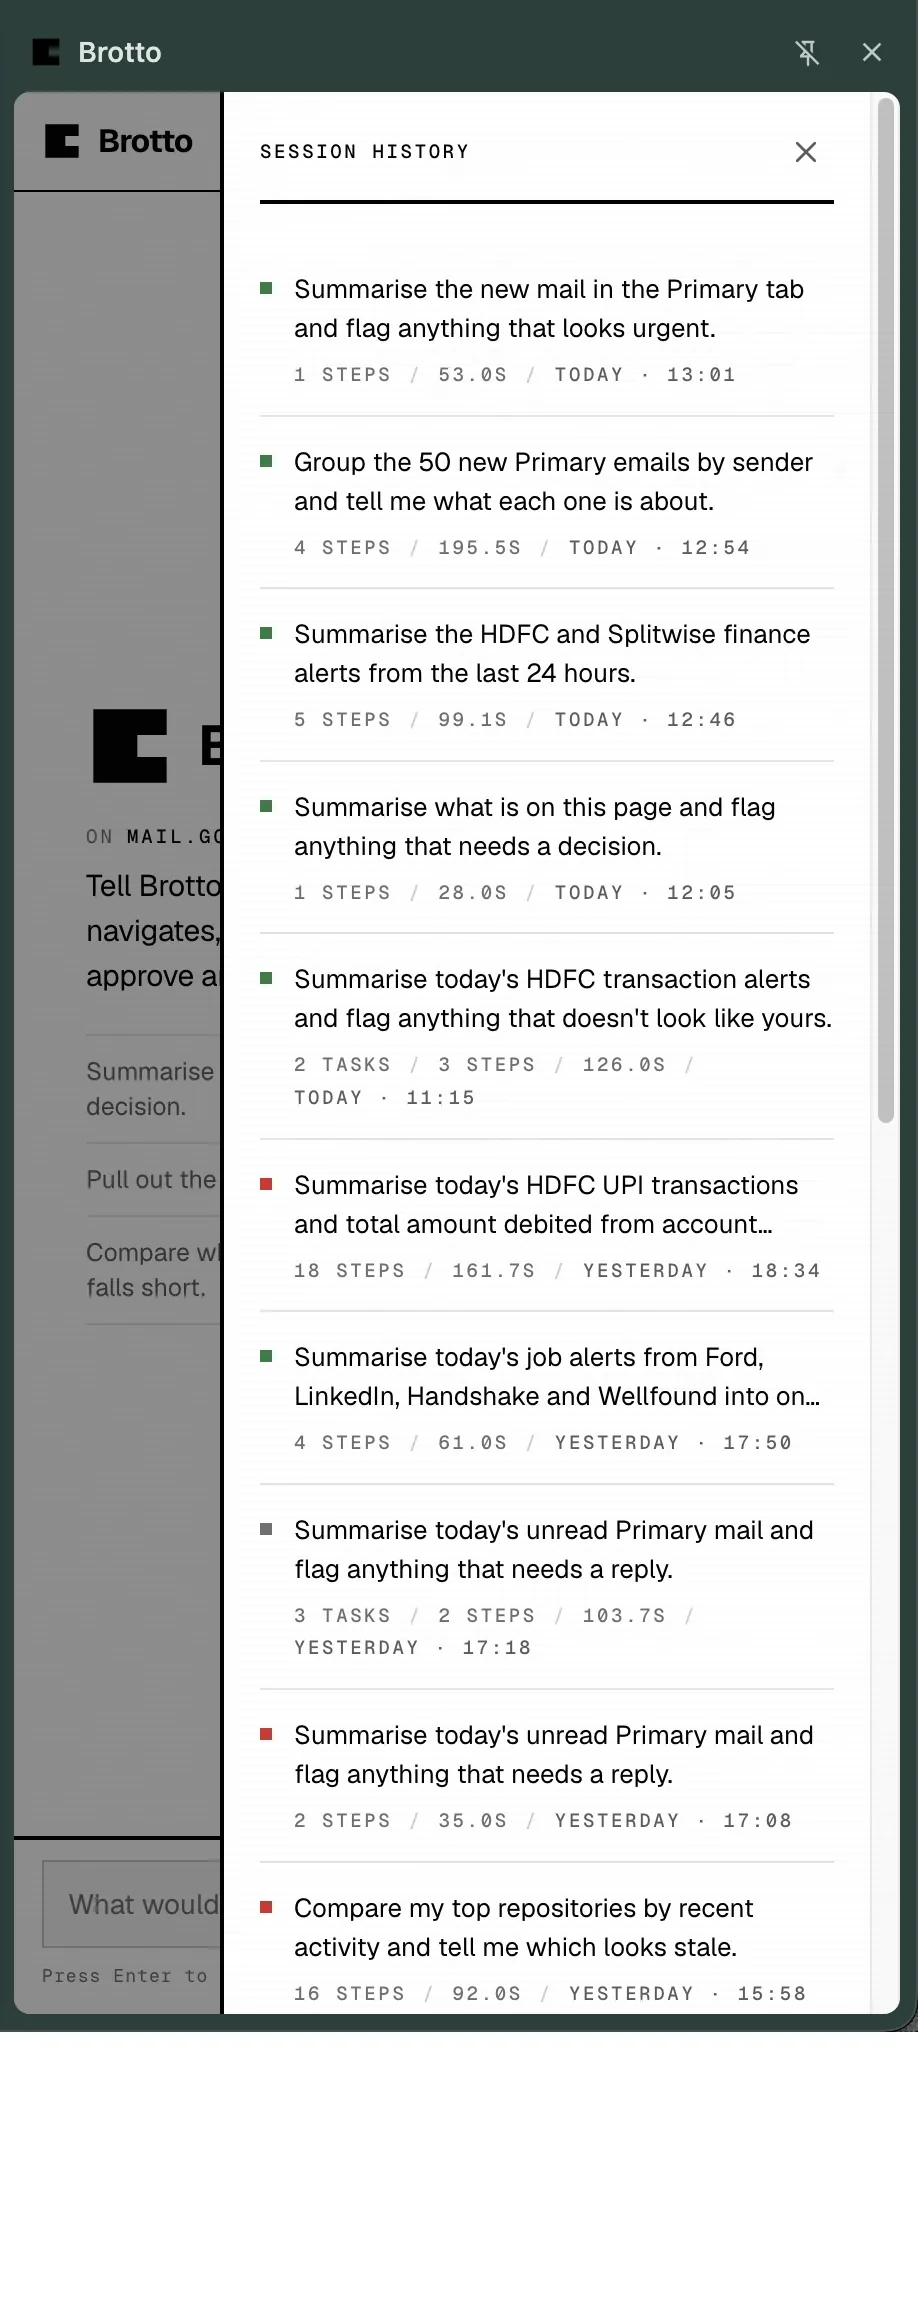
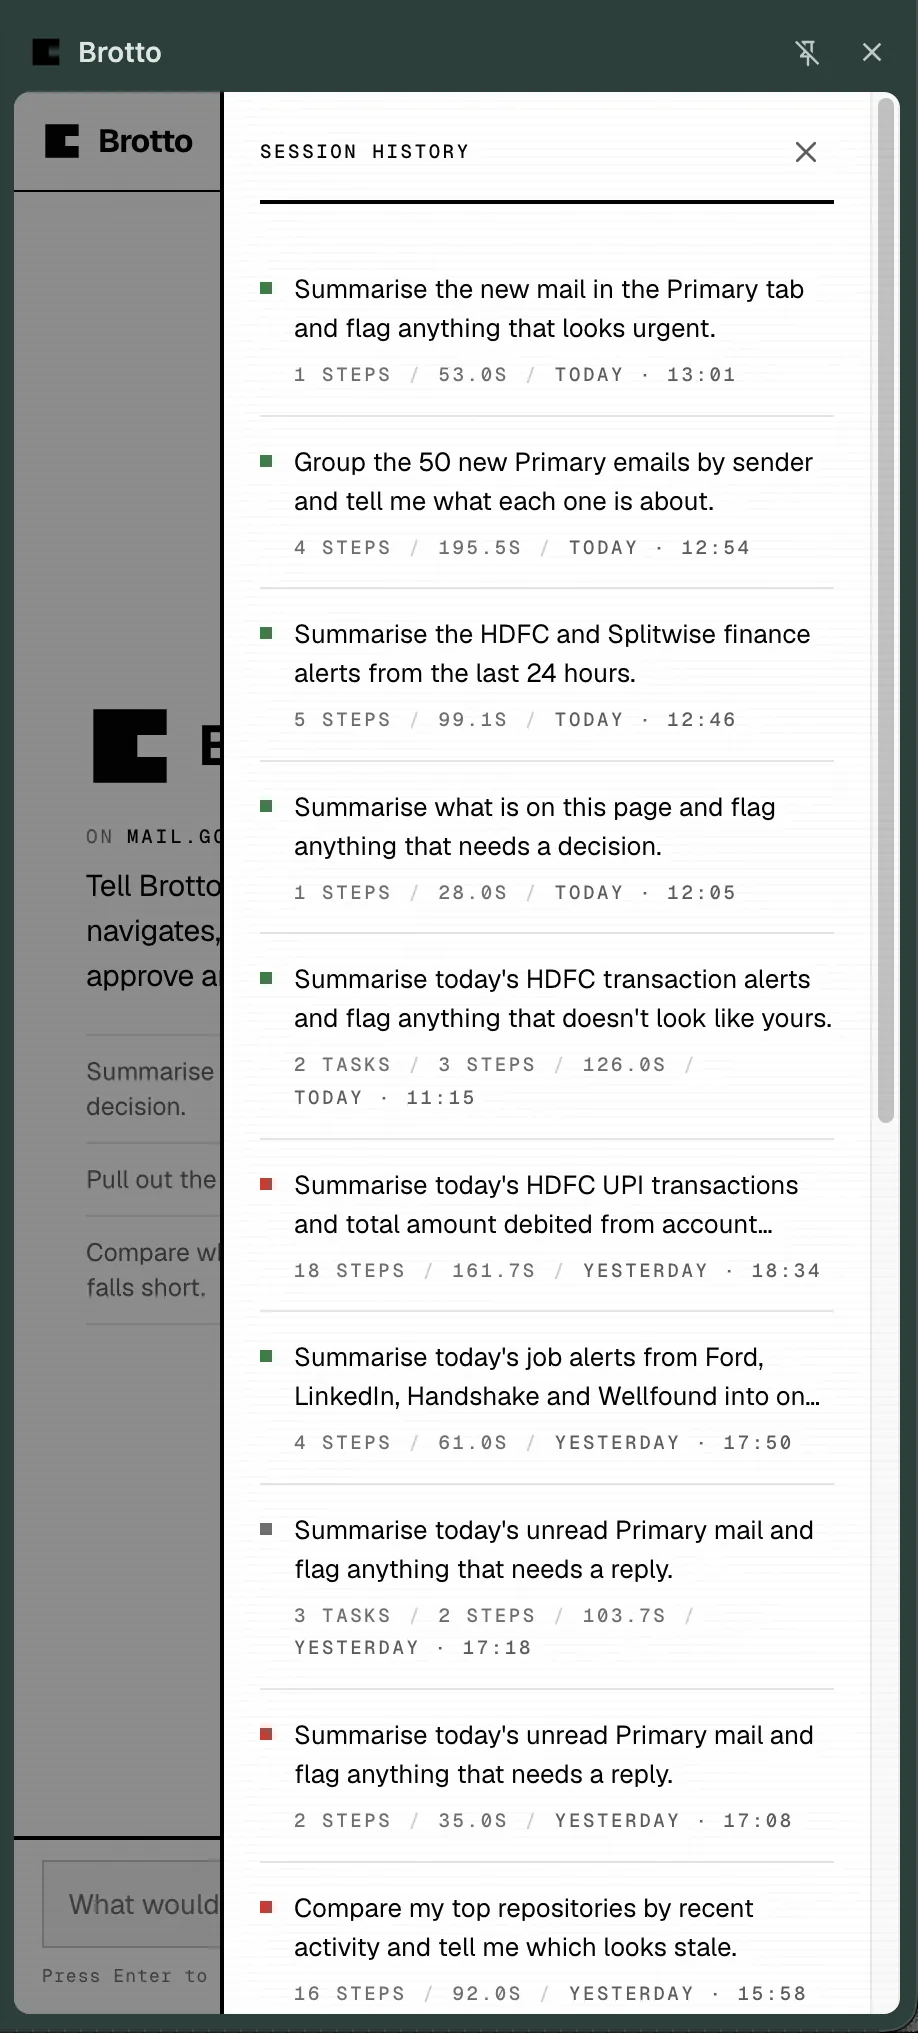
Trim the Screens images, and add the GitHub run as its own section
The panels were padded to a common height, which put a white band under three
of them. Crop back to the panel's own bottom edge instead.

The Screens grid goes back to three — idle, history, settings. The run itself
gets its own section instead, three shots in order, so "it works" is shown as a
sequence rather than folded into a grid of disconnected surfaces.

diff --git a/README.md b/README.md
@@ -60,13 +60,24 @@ references, the structure a screen reader already navigates by. No vision model,
 <div align="center">
 <table>
 <tr>
-<td width="25%"><img src="docs/images/panel-idle.webp" alt="The Brotto panel, idle, with suggestions"><br><sub><b>Idle.</b> The panel offers what the page in front of you could be asked to do.</sub></td>
-<td width="25%"><img src="docs/images/panel-task-completion.webp" alt="Brotto creating a branch protection ruleset on the Brotto repository"><br><sub><b>Working.</b> A real run on a real repo — the plan, the ruleset it wrote, and the result.</sub></td>
-<td width="25%"><img src="docs/images/panel-session-history.webp" alt="The session history list"><br><sub><b>History.</b> Every run, on your own disk, yours to delete.</sub></td>
-<td width="25%"><img src="docs/images/panel-settings.webp" alt="Brotto's settings: bring your own model key, and the sites it refuses"><br><sub><b>Yours.</b> Your model key, your server, and the list of sites Brotto refuses outright.</sub></td>
+<td width="33%"><img src="docs/images/panel-idle.webp" alt="The Brotto panel, idle, with suggestions"><br><sub><b>Idle.</b> The panel offers what the page in front of you could be asked to do.</sub></td>
+<td width="33%"><img src="docs/images/panel-session-history.webp" alt="The session history list"><br><sub><b>History.</b> Every run, on your own disk, yours to delete.</sub></td>
+<td width="33%"><img src="docs/images/panel-settings.webp" alt="Brotto's settings: bring your own model key, and the sites it refuses"><br><sub><b>Yours.</b> Your model key, your server, and the list of sites Brotto refuses outright.</sub></td>
 </tr>
 </table>
 </div>
+
+## One run, start to finish
+
+The same task, three moments: Brotto adding a branch protection ruleset to
+this repository. It reads the page, it asks when it is not sure, and it leaves
+the run on disk when it is done.
+
+<img src="docs/images/run-1-the-prompt.webp" alt="Brotto's panel with the task typed out: go to GitHub, find the Brotto repository, add a branch protection ruleset to main, and open a pull request for it" width="100%">
+
+<img src="docs/images/run-2-it-asks.webp" alt="Brotto stopping to clarify: it found two ways to add branch protection on the repository and is asking which one, with Skip and Say options" width="100%">
+
+<img src="docs/images/run-3-done.webp" alt="Brotto reporting DONE: it created a classic branch protection ruleset on the main branch of the Brotto repository, with targets, enforcement status, required checks and force-push settings" width="100%">
 
 ---
 
